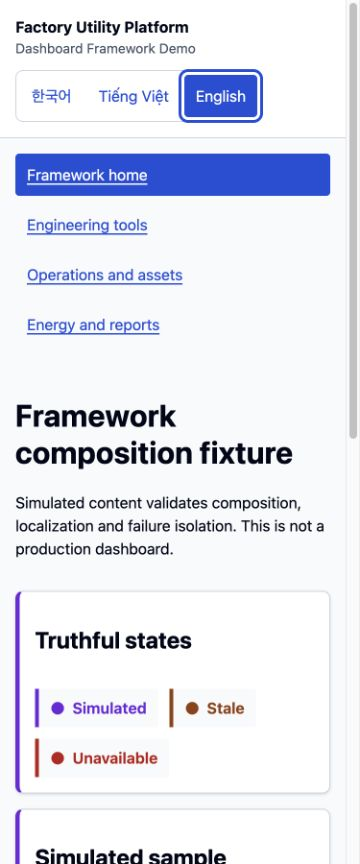
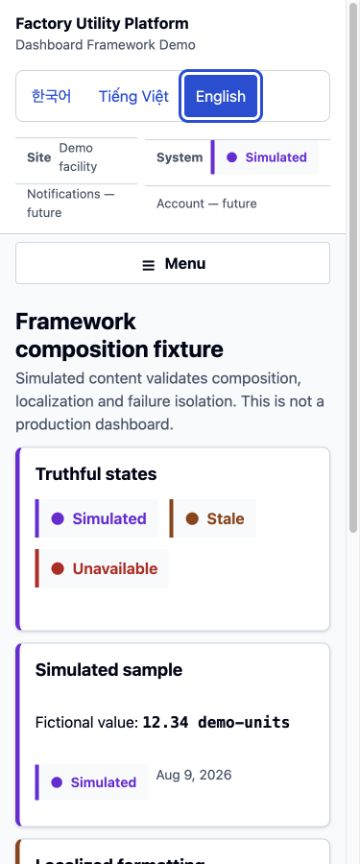
Refine Dashboard Experience Shell

diff --git a/03_Development/platform/assets/dashboard-framework/css/framework.css b/03_Development/platform/assets/dashboard-framework/css/framework.css
@@ -1,24 +1,39 @@
 @layer layout, components;
 
 @layer layout {
-  .fup-dashboard-shell__header { display: flex; flex-wrap: wrap; gap: var(--fup-space-3); align-items: center; justify-content: space-between; border-block-end: 1px solid var(--fup-color-border); background: var(--fup-color-surface); }
-  .fup-dashboard-shell__brand { min-inline-size: min(100%, 15rem); }
-  .fup-dashboard-nav { display: grid; gap: var(--fup-space-2); }
-  .fup-dashboard-nav a { min-block-size: var(--fup-size-target); display: flex; align-items: center; padding-inline: var(--fup-space-3); border-radius: var(--fup-radius-sm); }
+  .fup-dashboard-shell { background: var(--fup-color-surface-subtle); }
+  .fup-dashboard-shell__header { display: grid; grid-template-columns: minmax(12rem, auto) minmax(0, 1fr) auto; gap: var(--fup-space-4); align-items: center; padding-block: var(--fup-space-3); border-block-end: 1px solid var(--fup-color-border); background: var(--fup-color-surface); }
+  .fup-dashboard-shell__brand { min-inline-size: 12rem; }
+  .fup-dashboard-shell__commands { min-inline-size: 0; display: flex; flex-wrap: wrap; gap: var(--fup-space-2); align-items: center; }
+  .fup-command-placeholder { min-block-size: 2.25rem; display: inline-flex; align-items: center; gap: var(--fup-space-2); padding-inline: var(--fup-space-3); border-inline-start: 1px solid var(--fup-color-border); color: var(--fup-color-text-muted); font-size: .8125rem; }
+  .fup-dashboard-nav { display: grid; align-content: start; gap: var(--fup-space-4); padding: var(--fup-space-3); border-inline-end: 1px solid var(--fup-color-border); background: var(--fup-color-surface); }
+  .fup-dashboard-nav__group { display: grid; gap: var(--fup-space-1); }
+  .fup-dashboard-nav__label { padding-inline: var(--fup-space-3); color: var(--fup-color-text-muted); font-size: .75rem; font-weight: 700; letter-spacing: .04em; text-transform: uppercase; }
+  .fup-dashboard-nav a { min-block-size: var(--fup-size-target); display: flex; align-items: center; padding-inline: var(--fup-space-3); border-radius: var(--fup-radius-sm); font-size: .9375rem; font-weight: 600; text-decoration: none; }
   .fup-dashboard-nav a[aria-current="page"] { color: var(--fup-color-white); background: var(--fup-color-action); }
-  .fup-dashboard-regions { display: grid; gap: var(--fup-space-4); }
+  .fup-dashboard-shell__main { gap: var(--fup-space-3); padding-block: var(--fup-space-4); }
+  .fup-dashboard-intro h1 { margin-block: 0 var(--fup-space-1); font-size: clamp(1.5rem, 2vw, 2rem); }
+  .fup-dashboard-intro p { margin: 0; color: var(--fup-color-text-muted); }
+  .fup-dashboard-regions { display: grid; grid-auto-rows: minmax(12rem, auto); gap: var(--fup-space-3); }
   .fup-dashboard-region { min-inline-size: 0; }
-  @media (min-width: 48rem) { .fup-dashboard-regions { grid-template-columns: repeat(2, minmax(0, 1fr)); } .fup-dashboard-region--primary { grid-column: 1 / -1; } }
+  @media (min-width: 48rem) { .fup-dashboard-regions { grid-template-columns: repeat(2, minmax(0, 1fr)); } }
+  @media (min-width: 64rem) { .fup-dashboard-shell { grid-template-columns: 12.5rem minmax(0, 1fr); } .fup-dashboard-nav[hidden] { display: grid; } }
+  @media (max-width: 63.999rem) { .fup-dashboard-shell__header { grid-template-columns: minmax(0, 1fr) auto; } .fup-dashboard-shell__commands { grid-column: 1 / -1; order: 3; } .fup-dashboard-nav[hidden] { display: none; } .fup-dashboard-nav { border-inline-end: 0; border-block-end: 1px solid var(--fup-color-border); } }
+  @media (max-width: 35rem) { .fup-dashboard-shell__header { grid-template-columns: 1fr; } .fup-dashboard-shell__commands { display: grid; grid-template-columns: 1fr 1fr; } .fup-command-placeholder { border-inline-start: 0; border-block-start: 1px solid var(--fup-color-border); } }
 }
 
 @layer components {
   .fup-locale-selector { display: flex; flex-wrap: wrap; gap: var(--fup-space-1); padding: var(--fup-space-1); border: 1px solid var(--fup-color-border); border-radius: var(--fup-radius-md); }
   .fup-locale-selector button { min-block-size: var(--fup-size-target); min-inline-size: var(--fup-size-target); border: 0; border-radius: var(--fup-radius-sm); padding-inline: var(--fup-space-3); color: var(--fup-color-action); background: transparent; cursor: pointer; }
   .fup-locale-selector button[aria-pressed="true"] { color: var(--fup-color-white); background: var(--fup-color-action); }
-  .fup-widget { block-size: 100%; }
+  .fup-mobile-menu { min-block-size: var(--fup-size-target); display: none; align-items: center; justify-content: center; gap: var(--fup-space-2); border: 1px solid var(--fup-color-border); border-radius: var(--fup-radius-sm); padding-inline: var(--fup-space-4); color: var(--fup-color-text); background: var(--fup-color-surface); font-weight: 700; }
+  .fup-mobile-menu::before { content: "☰"; font-size: 1.25rem; }
+  .fup-widget { block-size: 100%; padding: var(--fup-space-4); }
+  .fup-widget h2 { margin-block: 0; font-size: 1.125rem; }
   .fup-widget__meta { display: flex; flex-wrap: wrap; gap: var(--fup-space-2); color: var(--fup-color-text-muted); font-size: .875rem; }
   .fup-widget[data-state="error"] { border-inline-start: .3rem solid var(--fup-status-critical); }
   .fup-widget[data-state="simulated"] { border-inline-start: .3rem solid var(--fup-status-simulated); }
   .fup-widget[data-state="stale"] { border-inline-start: .3rem solid var(--fup-status-warning); }
+  @media (max-width: 63.999rem) { .fup-mobile-menu { display: inline-flex; margin: var(--fup-space-2) var(--fup-space-4); } }
   @media (forced-colors: active) { .fup-locale-selector button[aria-pressed="true"], .fup-widget { border: 2px solid CanvasText; } }
 }

diff --git a/03_Development/platform/tests/Fixtures/DashboardFramework/index.html b/03_Development/platform/tests/Fixtures/DashboardFramework/index.html
@@ -10,18 +10,25 @@
 </head>
 <body>
   <a class="fup-skip-link" href="#main">Skip to main content</a>
-  <div class="fup-shell">
+  <div class="fup-shell fup-dashboard-shell">
     <header class="fup-shell__header fup-dashboard-shell__header">
       <div class="fup-dashboard-shell__brand"><strong data-i18n="shell.brand"></strong><div class="fup-hint" data-i18n="shell.demo"></div></div>
+      <div class="fup-dashboard-shell__commands" data-i18n-aria="shell.commands">
+        <span class="fup-command-placeholder"><strong data-i18n="shell.site"></strong><span data-i18n="shell.siteDemo"></span></span>
+        <span class="fup-command-placeholder"><strong data-i18n="shell.system"></strong><span class="fup-status" data-status="simulated" data-i18n="state.simulated"></span></span>
+        <span class="fup-command-placeholder" data-i18n="shell.notifications"></span><span class="fup-command-placeholder" data-i18n="shell.account"></span>
+      </div>
       <div class="fup-locale-selector" role="group" data-i18n-aria="shell.language">
         <button type="button" data-locale="ko-KR">한국어</button><button type="button" data-locale="vi-VN">Tiếng Việt</button><button type="button" data-locale="en-US">English</button>
       </div>
     </header>
-    <nav class="fup-shell__nav fup-dashboard-nav" data-i18n-aria="nav.primary">
-      <a href="#main" aria-current="page" data-i18n="nav.home"></a><a href="#engineering" data-i18n="nav.engineering"></a><a href="#operations" data-i18n="nav.operations"></a><a href="#reports" data-i18n="nav.reports"></a>
+    <button class="fup-mobile-menu" type="button" aria-controls="framework-navigation" aria-expanded="false" data-i18n="nav.menu"></button>
+    <nav class="fup-shell__nav fup-dashboard-nav" id="framework-navigation" data-i18n-aria="nav.primary">
+      <div class="fup-dashboard-nav__group"><span class="fup-dashboard-nav__label" data-i18n="nav.group.platform"></span><a href="#main" aria-current="page" data-i18n="nav.home"></a><a href="#engineering" data-i18n="nav.engineering"></a></div>
+      <div class="fup-dashboard-nav__group"><span class="fup-dashboard-nav__label" data-i18n="nav.group.insight"></span><a href="#operations" data-i18n="nav.operations"></a><a href="#reports" data-i18n="nav.reports"></a></div>
     </nav>
-    <main class="fup-shell__main fup-stack" id="main" tabindex="-1">
-      <div><h1 data-i18n="page.title"></h1><p data-i18n="page.description"></p></div>
+    <main class="fup-shell__main fup-dashboard-shell__main fup-stack" id="main" tabindex="-1">
+      <div class="fup-dashboard-intro"><h1 data-i18n="page.title"></h1><p data-i18n="page.description"></p></div>
       <div class="fup-dashboard-regions">
         <section class="fup-dashboard-region fup-dashboard-region--primary fup-panel fup-widget fup-stack" data-state="simulated" aria-labelledby="status-title"><h2 id="status-title" data-i18n="widget.status"></h2><div class="fup-cluster"><span class="fup-status" data-status="simulated" data-i18n="state.simulated"></span><span class="fup-status" data-status="stale" data-i18n="state.stale"></span><span class="fup-status" data-status="unavailable" data-i18n="state.unavailable"></span></div></section>
         <section class="fup-dashboard-region fup-panel fup-widget fup-stack" data-state="simulated" aria-labelledby="sample-title"><h2 id="sample-title" data-i18n="widget.sample"></h2><p><span data-i18n="label.value"></span>: <strong class="fup-data">12.34 demo-units</strong></p><div class="fup-widget__meta"><span class="fup-status" data-status="simulated" data-i18n="state.simulated"></span><time datetime="2026-08-09T09:00:00+07:00" data-date></time></div></section>

diff --git a/03_Development/platform/tests/Fixtures/DashboardFramework/fixture.js b/03_Development/platform/tests/Fixtures/DashboardFramework/fixture.js
@@ -28,6 +28,26 @@ async function applyLocale(locale, persist = true) {
 
 document.querySelectorAll('[data-locale]').forEach((button) => button.addEventListener('click', () => applyLocale(button.dataset.locale)));
 
+const menuButton = document.querySelector('.fup-mobile-menu');
+const navigation = document.querySelector('#framework-navigation');
+if (menuButton instanceof HTMLButtonElement && navigation instanceof HTMLElement) {
+  const compact = window.matchMedia('(max-width: 63.999rem)');
+  const synchronizeNavigation = () => {
+    if (compact.matches) {
+      navigation.hidden = menuButton.getAttribute('aria-expanded') !== 'true';
+    } else {
+      navigation.hidden = false;
+      menuButton.setAttribute('aria-expanded', 'false');
+    }
+  };
+  menuButton.addEventListener('click', () => {
+    menuButton.setAttribute('aria-expanded', String(menuButton.getAttribute('aria-expanded') !== 'true'));
+    synchronizeNavigation();
+  });
+  compact.addEventListener('change', synchronizeNavigation);
+  synchronizeNavigation();
+}
+
 const storedLocale = localStorage.getItem(preferenceKey);
 const browserLocale = navigator.languages.find((locale) => supportedLocales.includes(locale));
 applyLocale(storedLocale ?? browserLocale ?? fallbackLocale, false);

diff --git a/03_Development/platform/tests/Experience/Dashboard/DashboardFixtureContractTest.php b/03_Development/platform/tests/Experience/Dashboard/DashboardFixtureContractTest.php
@@ -28,6 +28,9 @@ final class DashboardFixtureContractTest extends TestCase
         self::assertStringContainsString('한국어', $html);
         self::assertStringContainsString('Tiếng Việt', $html);
         self::assertStringContainsString('English', $html);
+        self::assertStringContainsString('aria-controls="framework-navigation"', $html);
+        self::assertStringContainsString('aria-expanded="false"', $html);
+        self::assertStringContainsString('fup-dashboard-shell__commands', $html);
         foreach (['simulated', 'stale', 'unavailable', 'error'] as $state) {
             self::assertMatchesRegularExpression('/data-(?:state|status)="' . $state . '"/', $html);
         }

diff --git a/05_QA/2026-08-09_DASH-001_DASHBOARD_FRAMEWORK_BROWSER_EVIDENCE.md b/05_QA/2026-08-09_DASH-001_DASHBOARD_FRAMEWORK_BROWSER_EVIDENCE.md
@@ -15,7 +15,15 @@
 | `ko-KR` desktop, 1440 × 1000 | Korean title, navigation, states, failure, table, date, number, Unicode glyphs, and selected locale exposed; page overflow false | [Korean desktop](evidence/DASH-001/dashboard-framework-ko-KR-desktop.jpg) | PASS |
 | `vi-VN` desktop, 1440 × 1000 | Vietnamese diacritics, expanded labels, localized number/date, selected locale, and failure isolation visible; page overflow false | [Vietnamese desktop](evidence/DASH-001/dashboard-framework-vi-VN-desktop.jpg) | PASS |
 | `en-US` desktop, 1440 × 1000 | Canonical English fallback presentation, shell, regions, states, formatting, and isolated error visible; page overflow false | [English desktop](evidence/DASH-001/dashboard-framework-en-US-desktop.jpg) | PASS |
-| `en-US` mobile, 375 × 900 | Single-column shell, complete language selector/navigation, wrapped heading, visible states, 44px targets, and no page overflow | [English mobile](evidence/DASH-001/dashboard-framework-en-US-mobile.jpg) | PASS |
+| `ko-KR` mobile, 375 × 900 | Compact menu is initially collapsed, primary content begins immediately after the 44px menu control, Korean labels wrap safely, and page overflow is false | [Korean mobile](evidence/DASH-001/dashboard-framework-ko-KR-mobile.jpg) | PASS |
+| `en-US` mobile, 375 × 900 | Compact menu is initially collapsed, primary content begins immediately after the 44px menu control, and page overflow is false | [English mobile](evidence/DASH-001/dashboard-framework-en-US-mobile.jpg) | PASS |
+
+## CTO-requested Experience Shell Refinement
+
+- The desktop navigation is a compact 12.5rem rail with grouped Platform and Operations fixture destinations, consistent 44px targets, and explicit active/inactive hierarchy.
+- The header provides non-operational site, simulated system state, future notifications, and future account placeholders while retaining the global language selector on the right.
+- The content canvas uses a denser, aligned responsive grid without production KPIs, alarms, or utility-specific data.
+- At 375 × 900, the navigation is hidden initially. The 44px menu control changes `aria-expanded` from `false` to `true`, reveals the controlled navigation, and returns to the collapsed state without page overflow.
 
 ## Interaction and Responsive Evidence
 
@@ -25,4 +33,8 @@
 - Accessibility snapshot exposed a banner, named language group, named primary navigation, one main landmark, ordered headings/regions, truthful status text, captioned table with row/column headers, alert, and contentinfo.
 - The simulated renderer failure remained local to one widget; the shell and three successful content regions remained visible.
 
-VoiceOver, forced-colors/high-contrast, active OS reduced-motion, actual 200% zoom, and applicable 400% reflow remain required final-review checks unless explicitly deferred by the approving authority. They are not represented as PASS in this implementation evidence.
+## Zoom, Reflow, and Deferred Limitations
+
+- Browser zoom commands were issued from the in-app browser, but the fixture viewport, `devicePixelRatio`, and visual viewport scale did not change. Consequently, actual 200% browser zoom could not be verified in this environment and is recorded as **NOT VERIFIED**, not PASS.
+- The 320 CSS-pixel responsive run provides applicable narrow-width reflow evidence with no page-level horizontal scrolling, but it is not represented as an actual 400% browser-zoom PASS. Actual 400% reflow remains **NOT VERIFIED**.
+- VoiceOver, forced-colors/high-contrast, and active OS reduced-motion remain **NOT RUN / Deferred** as previously permitted. They are not represented as PASS.

diff --git a/05_QA/2026-08-09_DASH-001_DASHBOARD_FRAMEWORK_QA.md b/05_QA/2026-08-09_DASH-001_DASHBOARD_FRAMEWORK_QA.md
@@ -10,7 +10,7 @@
 |---|---|---|
 | Composer strict validation | Valid | PASS |
 | PHPStan maximum level | 0 errors | PASS |
-| PHPUnit | 59 tests, 432 assertions | PASS |
+| PHPUnit | 59 tests, 489 assertions | PASS |
 | Locale resources | `ko-KR`, `vi-VN`, and `en-US` have identical canonical key sets | PASS |
 | Locale fallback/safety | English fallback, missing-key marker, parameter escaping, plural behavior, invalid preference fallback pass | PASS |
 | Registry/composition | Duplicate/closure, deterministic order, unavailable default, and failure isolation tests pass | PASS |
@@ -18,6 +18,10 @@
 | Asset budgets | Framework compressed CSS below 20 KB; fixture JavaScript below 30 KB | PASS |
 | Responsive browser | Seven evidence widths have zero page-level overflow and compliant visible language targets | PASS |
 | Multilingual browser | Korean, Vietnamese, and English presentation plus persisted selection pass | PASS |
+| Experience Shell refinement | Compact desktop rail, command-center placeholders, denser content grid, and collapsed mobile navigation verified | PASS |
+| Actual browser zoom | In-app zoom command produced no observable zoom change; not represented as PASS | NOT VERIFIED |
+| Applicable 400% reflow | 320px narrow-width behavior passes, but actual 400% browser zoom was unavailable | NOT VERIFIED |
+| Deferred accessibility modes | VoiceOver, forced-colors/high-contrast, and active OS reduced-motion | NOT RUN / Deferred |
 | Production isolation | No fixture route/asset registration, provider call, production data, business Dashboard, or authentication | PASS |
 | Protected documents | Master Charter, Platform Architecture, and Governance Architecture unchanged | PASS |
 

diff --git a/00_Governance/CHANGELOG.md b/00_Governance/CHANGELOG.md
@@ -1,5 +1,13 @@
 # Changelog
 
+## 2026-08-09 — Dashboard Experience Shell Refined for Visual Review
+
+- Refined the framework fixture with a compact grouped desktop navigation rail, reusable command-center header placeholders, and a denser aligned content grid.
+- Added an accessible 44px mobile menu that keeps navigation collapsed initially so primary content appears earlier, while preserving responsive behavior and language selection.
+- Re-captured Korean, Vietnamese, and English desktop evidence plus Korean and English mobile evidence using simulated/non-production content only.
+- Recorded actual 200% browser zoom and actual 400% browser reflow as NOT VERIFIED because the in-app browser did not expose an observable zoom change; retained VoiceOver, forced-colors/high-contrast, and OS reduced-motion as NOT RUN / Deferred.
+- Kept PR #41 Draft and `DASH-001` In Progress pending final visual CTO approval; changed no Dashboard contracts, registration, routing, failure isolation, truthful-state, localization, persistence, Design System, protected Charter, or Architecture.
+
 ## 2026-08-09 — Dashboard Framework Implemented for Review
 
 - Implemented Experience Shell navigation/routing contracts, deterministic widget registry/composition, truthful projection states, and renderer failure isolation.

diff --git a/00_Governance/AI_STATUS.md b/00_Governance/AI_STATUS.md
@@ -10,8 +10,8 @@
 | Active backlog item | `DASH-001` |
 | Active branch | `agent/dashboard-framework` |
 | Active pull request | Draft PR #41 — Dashboard Framework Implementation |
-| Next approved action | Review and validate Dashboard Framework and multilingual foundation implementation; do not begin a business Dashboard or vertical slice |
-| Blockers | None; Design System VoiceOver, forced-colors/high-contrast, and OS reduced-motion remain accepted NOT RUN / Deferred limitations |
+| Next approved action | CTO visual review of the focused Experience Shell refinement in Draft PR #41; do not merge or begin a business Dashboard or vertical slice |
+| Blockers | Final visual CTO approval pending; Dashboard Framework actual 200% zoom and 400% browser reflow are NOT VERIFIED in the in-app browser; VoiceOver, forced-colors/high-contrast, and OS reduced-motion remain NOT RUN / Deferred |
 
 ## Constitutional State
 
